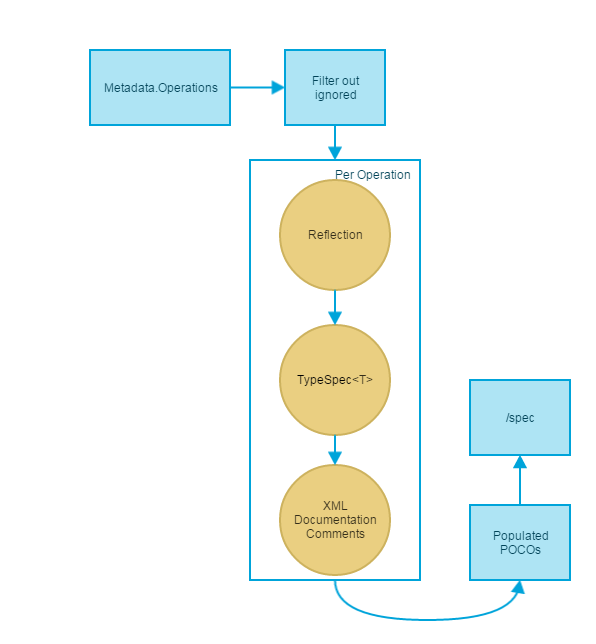
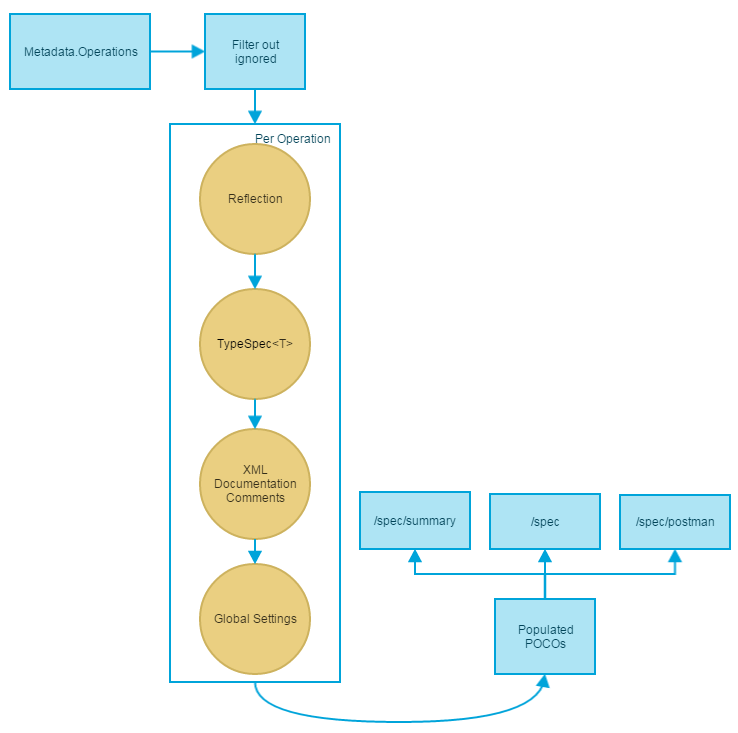
Update readme documentation

diff --git a/readme.md b/readme.md
@@ -1,6 +1,8 @@
 # ServiceStack.IntroSpec
 
-A plugin for [ServiceStack](https://servicestack.net/) that generates a series of POCOs documenting all available services as well as request and response DTOs. These POCOs will allow the data tbe be visualised in a number of standard API documentation formats (e.g. postman, swagger, RAML).
+A plugin for [ServiceStack](https://servicestack.net/) that generates a series of POCOs documenting all available services as well as request and response DTOs. These POCOs will allow the data to be be visualised in a number of standard API documentation formats (e.g. postman, swagger, RAML).
+
+![Formats](assets/MultiFormat.png)
 
 The plugin uses introspection on a number of different sources to generate as rich a set of documentation possible.
 
@@ -27,15 +29,17 @@ public override void Configure(Container container)
 }
 ```
 
-When the service starts up this will generate a list of all documentation. The plugin will also render a service which can be accessed at `/spec` to view the generated documentation.
+When the service starts up this will generate a list of all documentation.
 
 ## Documenting DTOs
-The plugin uses a series of 'enrichers' to generate documentation, these are called in the order listed below. The general approach is to use Reflection to get as much information as possible which can then be augmented (with descriptions, notes etc) from further sources.
+The plugin uses the `Metadata Plugin` as the seed for all operations then uses a series of 'enrichers' to generate documentation, these are called in the order listed below. The general approach is to use Reflection to get as much information as possible which can then be augmented (with descriptions, notes etc) from further sources.
 
-By default the approach is for each enricher to only set a value if it has not already been set. The exception for this is if the value is an array (e.g. an array of StatusCodes that may be returned) in this instance the strategy is to union results from various enrichers. This default can be controlled via the `DocumenterSettings.CollectionStrategy` setting.
+![Enrichment](assets/Enrichment.png)
+
+For full details of the sources of data for the various enrichers please see [Sources](/docs/sources.md)
 
 ### ReflectionEnricher
-The `ReflectionEnricher` uses reflection to get details about DTOs. This uses 
+The `ReflectionEnricher` uses reflection to generate documentation. This is the best source of information as it uses many of the same mechanisms as ServiceStack to determine information.
 
 For example the following class would look at a combination of `[Api]`, `[ApiResponse]`, `[Route]`, `[ApiMember]`, `[IgnoreDataMember]` and `[ApiAllowableValues]` attributes to generate the documentation.
 
@@ -64,30 +68,27 @@ public class DemoResponse
 	public string Message { get; set; }
 }
 ```
-Although some of these attributes are originally for alternative purposes they give a good description of the DTO.
-
-_TODO: Full details of where each property comes from_
+This approach uses a combination of attributes, DTO and service types and implemented interfaces to generate a good description of a service.
 
 ### AbstractClassEnricher
-This uses an approach similar to [FluentValidation](https://github.com/ServiceStack/ServiceStack/wiki/Validation#fluentvalidation-for-request-dtos). 
+This uses an approach similar to [FluentValidation](https://github.com/ServiceStack/ServiceStack/wiki/Validation#fluentvalidation-for-request-dtos) to provide additional information about objects.
 
-The enricher scans for implementations of `RequestSpec<T>` (for RequestDTOs) `TypeSpec<T>` (any other classes to be documented, e.g. embedded classes or Response DTOs) and generates documentation based on this. E.g.
+The enricher scans for implementations of `RequestSpec<T>` (for Request DTOs) `TypeSpec<T>` (any other classes to be documented, e.g. embedded classes or Response DTOs) and generates documentation based on this. E.g.
 
 ```charp
-public class DemoRequestDocumenter : RequestDtoSpec<DemoRequest>
+public class DemoRequestDocumenter : RequestSpec<DemoRequest>
 {
     public DemoRequestDocumenter()
     {
         Title = "Plain request title from abstract";
         Description = "Demo Request Description";
-        Notes = "Notes about request";
+        Notes = "Notes about demo request";
 
         Category = "Category1";
 
-        AddVerbs("GET", "POST");
         AddTags("Tag1", "Tag2", "Tag3");
 
-        AddStatusCodes(
+        AddStatusCodes(HttpVerbs.Post,
             new StatusCode
             {
                 Code = 500,
@@ -96,10 +97,12 @@ public class DemoRequestDocumenter : RequestDtoSpec<DemoRequest>
             },
             (StatusCode)HttpStatusCode.OK);
 
+		AddContentTypes(HttpVerbs.Get, "application/x-custom-type");
+
         For(t => t.Name)
             .With(p => p.Title, "Name parameter")
             .With(p => p.IsRequired, true)
-            .With(p => p.Description, "This is a description of name");
+            .With(p => p.Description, "This is a description of name.");
 
         For(t => t.Age)
             .With(p => p.Title, "This is optional.")
@@ -107,7 +110,7 @@ public class DemoRequestDocumenter : RequestDtoSpec<DemoRequest>
     }
 }
 
-public class DemoResponseDocumenter : ApiDtoSpec<DemoResponse>
+public class DemoResponseDocumenter : TypeSpec<DemoResponse>
 {
     public DemoResponseDocumenter()
     {
@@ -116,17 +119,13 @@ public class DemoResponseDocumenter : ApiDtoSpec<DemoResponse>
 		
 		For(t => t.Message)
 			.With(p => p.Title, "Response Message")
-            .With(p => p.Description, "The returned message");
+            .With(p => p.Description, "The message returned from service.");
     }
 }
 ```
-This approach allows for very explicit setting of properties as these classes are specifically for this purpose.
-_TODO: Full details of where each property comes from_
-
+This approach allows for very explicit setting of properties. Whilst they will have no effect to the processing of requests it provides the ability to generate rich documentation about DTOs.
 ### XmlEnricher
-This uses the standard C# Xml Documentation Comments to generate documentation. 
-
-For this to work the XML documentation file must be generated for the service. To do so RMC project -> Properties -> Build -> check "XML documentation file" box, _insert screenshot_.
+This uses the standard [C# Xml Documentation Comments](https://msdn.microsoft.com/en-us/library/b2s063f7(v=vs.140).aspx) to generate documentation. 
 
 ```csharp
 /// <summary>
@@ -158,8 +157,10 @@ public class DemoResponse
 
 The XML documentation comments are for general documentation about classes and not specifically for documentating APIs and DTOs but if need be these values can be used.
 
+__Note:__ for this to work the XML documentation file must be generated for the service. To do so RMC project -> Properties -> Build -> check "XML documentation file" box.
+
 ### FallbackEnricher
-This will use global settings within the `DocumenterSetting` object for setting both fallback values (e.g. `.FallbackNotes` for if no other `Notes` are found) or default values (e.g. `.DefaultTags` which are used alongside tags from other sources.
+This will use global settings within the `DocumenterSetting` object for setting both fallback values (e.g. `.FallbackNotes` for if no other `Notes` are found) or default values (e.g. `.DefaultTags` which are combined with tags from other sources).
 ```csharp
 DocumenterSettings.FallbackNotes = "Default notes";
 DocumenterSettings.FallbackCategory = "Fallback Category";
@@ -181,16 +182,131 @@ DocumenterSettings.With(fallbackNotes: "Default notes",
 Plugins.Add(new ApiSpecFeature(apiSpecConfig));
 ```
 
-
-
-
-
-
-_TODO: Full details of where each property comes from. Fuller example_
-
 ## Customising
 The plugin filters the `Metadata.OperationsMap` to get a list of `Operation` objects that contain the requests to be documented. This filter can be customised by providing a predicate to the plugin using the `ApiSpecFeature.WithOperationsFilter()` method. The default filter excludes any types that have `[Exclude(Feature.Metadata]` or `[Exclude(Feature.ServiceDiscovery]` or any restrictions.
 
+
+## Output
+3 services are registered as part of this service
+
+### Spec
+
+The plugin will also register a service which can be accessed at `/spec` to view the raw generated documentation POCOs.
+
+This endpoint can optionally be filtered by `?requestDto`, `?tags` and/or `?categories`.
+
+Example output is:
+```json
+{
+  "ApiDocumentation": {
+    "Title": "DemoDocumentationService",
+    "ApiVersion": "2.0",
+    "ApiBaseUrl": "http://127.0.0.1:8090/",
+    "Description": "This is a demo app host setup for testing documentation.",
+    "LicenceUrl": "http://mozilla.org/MPL/2.0/",
+    "Contact": {
+      "Name": "Joe Bloggs",
+      "Email": "email@address.com"
+    },
+    "Resources": [
+      {
+        "TypeName": "FallbackRequest",
+        "Title": "Fallback request title",
+        "Description": "Fallback request desc",
+        "Properties": [
+          {
+            "Id": "Name",
+            "ClrType": "System.String, mscorlib",
+            "Title": "Name parameter abstract class definition",
+            "IsRequired": true
+          },
+          {
+            "Id": "Age",
+            "ClrType": "System.Int32, mscorlib",
+            "Title": "Age is optional",
+            "IsRequired": false,
+            "Contraints": {
+              "Name": "Age Range",
+              "Min": 0,
+              "Max": 120,
+              "Type": "Range"
+            }
+          }
+        ],
+        "Actions": [
+          {
+            "Verb": "GET",
+            "Notes": "This is a note about GET route",
+            "StatusCodes": [
+              {
+                "Code": 429,
+                "Description": "This is rate limited",
+                "Name": "Too Many Requests"
+              },
+              {
+                "Code": 200,
+                "Name": "OK"
+              }
+            ],
+            "ContentTypes": [
+              "application/xml",
+              "application/json"
+            ],
+            "RelativePaths": [
+              "/fallback"
+            ]
+          }
+        ],
+        "ReturnType": {
+          "Title": "ComplexResponse"
+          "Properties": [
+            {
+              "Id": "Message",
+              "ClrType": "System.String, mscorlib",
+              "Title": "Message",
+              "Description": "The returned message"
+            }
+          ]
+        },
+        "Category": "Category1",
+        "Tags": [
+          "Tag1",
+          "DefaultTag"
+        ]
+      }
+    ]
+  }
+}
+```
+### Spec Metadata
+The plugin will also register a service which can be accessed at `/spec/summary` to view the raw generated documentation POCOs. This will return some metadata about the documentation.
+
+The values that are returned are the 3 fields that can be used to filter the other 2 services: Request DTO Name, Tags and Category. E.g.
+
+```json
+{
+  "DtoNames": [
+    "DemoRequest",
+    "FallbackRequest",
+    "EmptyDtoRequest",
+    "OneWayRequest",
+    "SecureRequest"
+  ],
+  "Categories": [
+    "Fallback Category",
+    "Category1"
+  ],
+  "Tags": [
+    "DefaultTag",
+    "Tag1",
+    "Tag2",
+    "Tag3"
+  ]
+}
+```
+In future this will be used to power a separate application that can aggregrate documentation from multiple different services.
+
+### Postman
 
 ## Settings
 DocumenterSettings class

diff --git a/docs/sources.md b/docs/sources.md
@@ -1,6 +1,16 @@
 ## Information Sources
 The following tables document where the various reflections read information from.
 
+By default the approach is for each enricher to only set a value if it has not already been set. The exception for this is if the value is an array (e.g. an array of StatusCodes that may be returned) in this instance the strategy is to union results from various enrichers. This default can be controlled via the `DocumenterSettings.CollectionStrategy` setting.
+
+The fields that each provider populates differs as not every source can supply all data. There are 5 interfaces that the enrichers can implement:
+
+* `IResourceEnricher` - a Resource is any request/response DTO type, or types embedded in a request/response DTO.
+* `IPropertyEnricher` - a property is an individual property of a resource.
+* `IRequestEnricher` - the IRequestEnricher is for populating fields related to Request DTOs.
+* `IActionEnricher` - an Action is a Verb for a request (e.g. PersonRequest GET and PersonRequest POST are 2 different actions). This allows for handling of different routes or authentication settings per verb.
+* `ISecurityEnricher` - for populating any security information (roles, permissions etc).
+
 ### Reflection Enricher
 Reflection is the main source of information as it is what the underlying framework uses to process/restrict/construct requests.
 | Field | Source | Notes |
